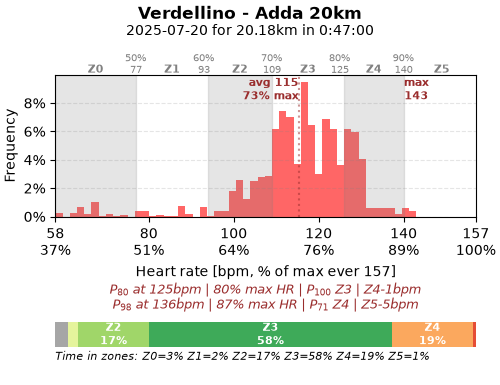
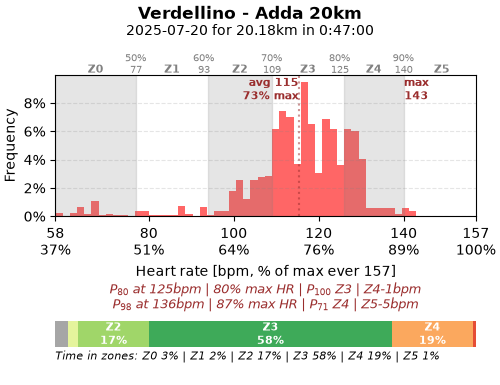
feat(sport-analysis): use "|" instead of "=" in "Time in zones" text

diff --git a/projects/sport-analysis/sport_analysis/plot/base_plot.py b/projects/sport-analysis/sport_analysis/plot/base_plot.py
@@ -746,7 +746,7 @@ class MixinHrPlot(BasePlot):
                 )
             z_perc.append(round(xdata_hr_zone_perc * 100))
 
-        txt = f"Time in zones: Z0={z_perc[0]}% Z1={z_perc[1]}% Z2={z_perc[2]}% Z3={z_perc[3]}% Z4={z_perc[4]}% Z5={z_perc[5]}%"
+        txt = f"Time in zones: Z0 {z_perc[0]}% | Z1 {z_perc[1]}% | Z2 {z_perc[2]}% | Z3 {z_perc[3]}% | Z4 {z_perc[4]}% | Z5 {z_perc[5]}%"
         axes.annotate(
             txt,
             (axes.get_xlim()[0], axes.get_ylim()[0]),

diff --git a/projects/sport-analysis/TODO.md b/projects/sport-analysis/TODO.md
@@ -1,8 +1,5 @@
 
 
-- Time in zones: Z0=0% Z1=0%
-   Prova ad usare "|": Z0 0% | Z1 0% | ...
-
 - usa sempre domande interattive, dovunque ma in particolare per interval run
   vedi qto già fatto in `search_strava_api_cli.py`
 
